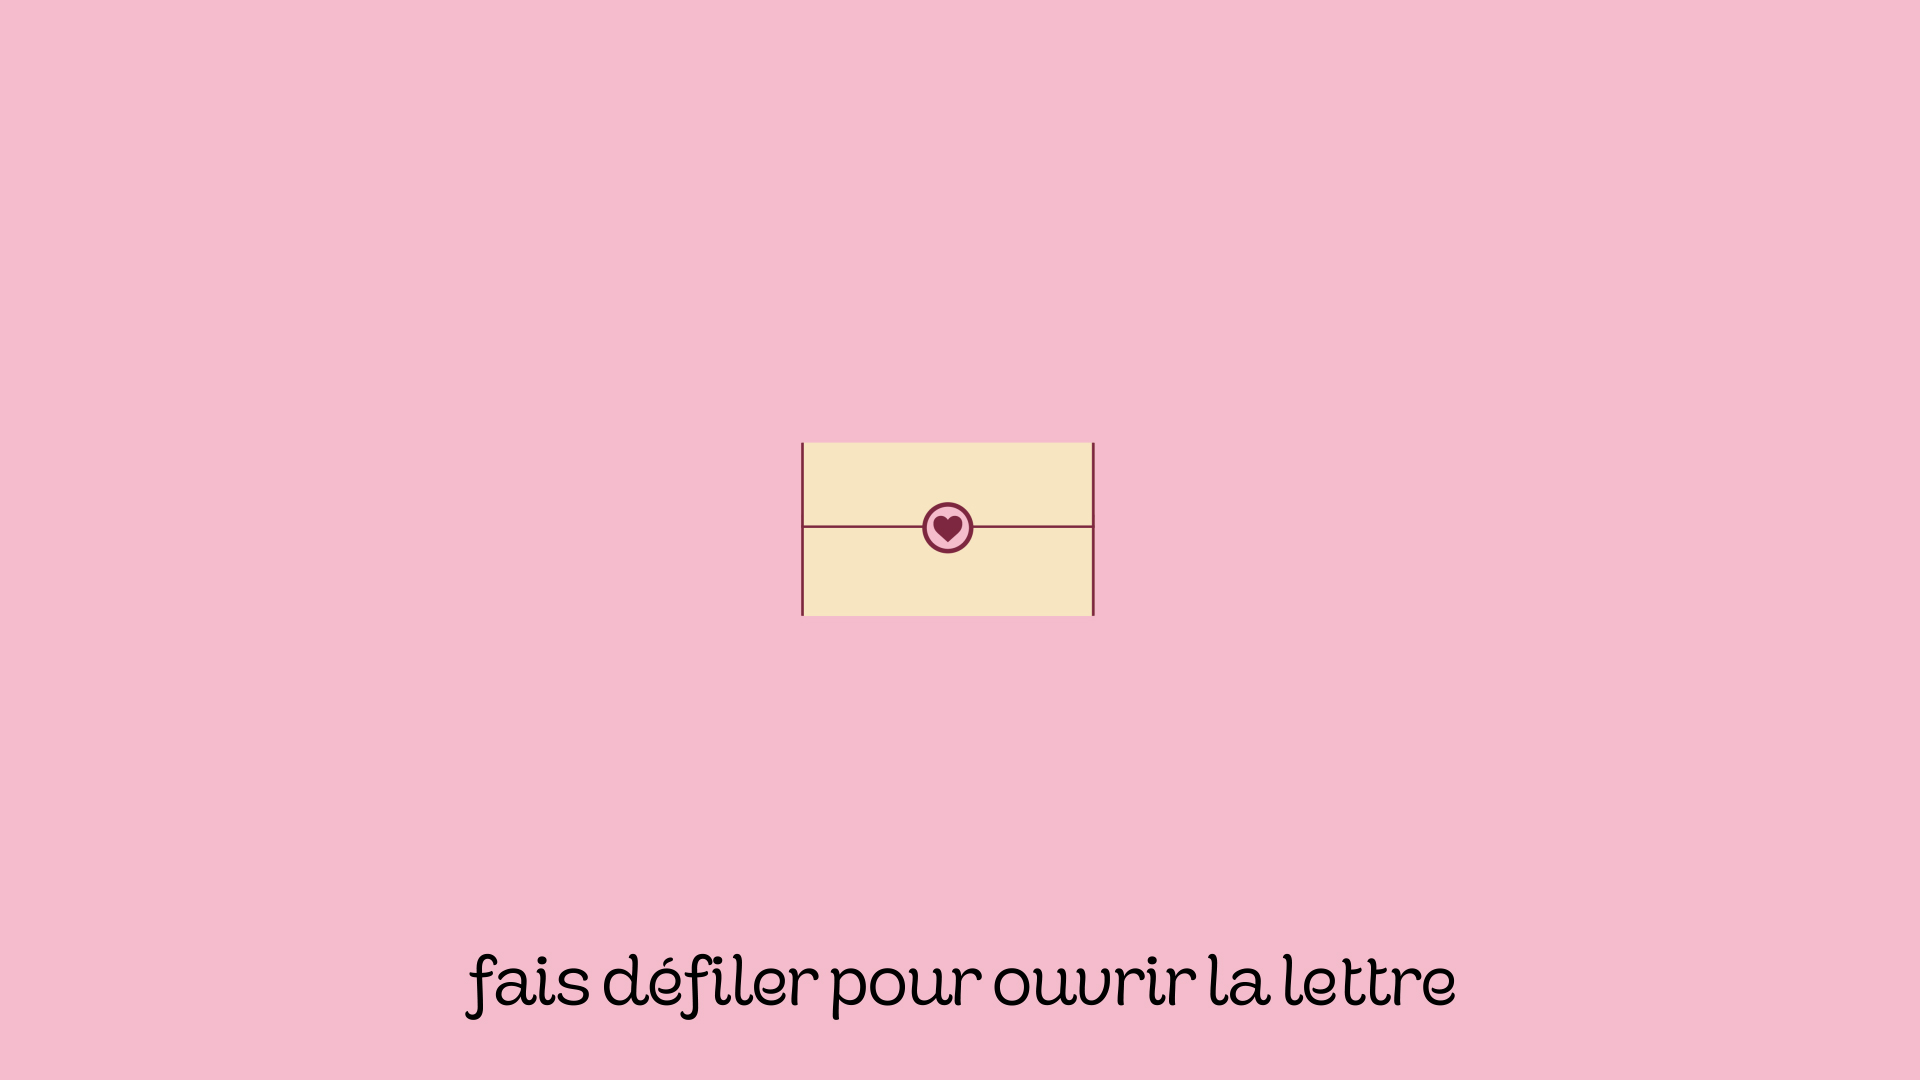
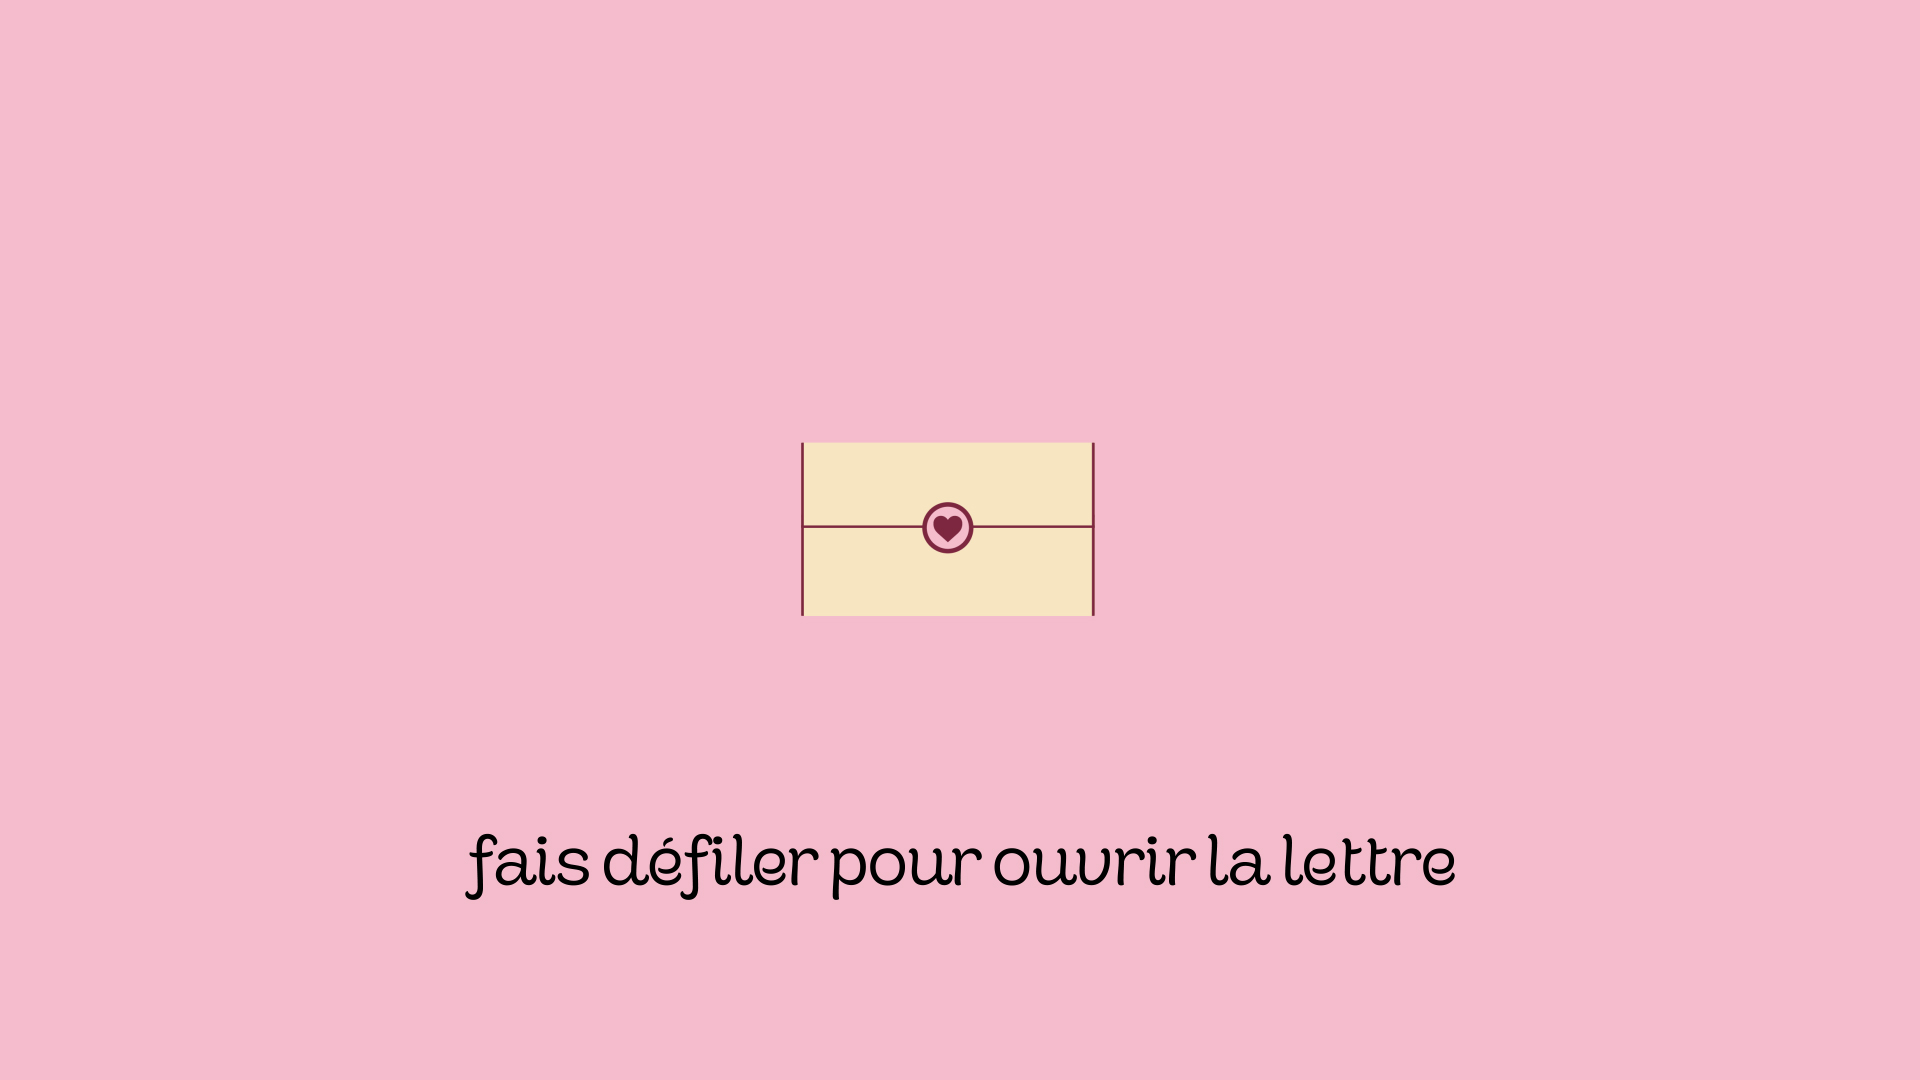
change sequence path and adjust sequence texte

Changed region(s): [[0.25, 0.7639, 0.7812, 0.825], [0.25, 0.8861, 0.75, 0.9472]]

diff --git a/script/lettre.js b/script/lettre.js
@@ -32,6 +32,6 @@ gsap.to(sequence, {
         const numeroFormate = sequence.frame.toString().padStart(3, '0');
         
         // Vérifie toujours ton chemin ici ("./seq/" ou "./src/seq/")
-        img.src = `./seq/lettre-${numeroFormate}.jpg`; 
+        img.src = `./seq-txt/lettre-${numeroFormate}.jpg`; 
     }
 });
